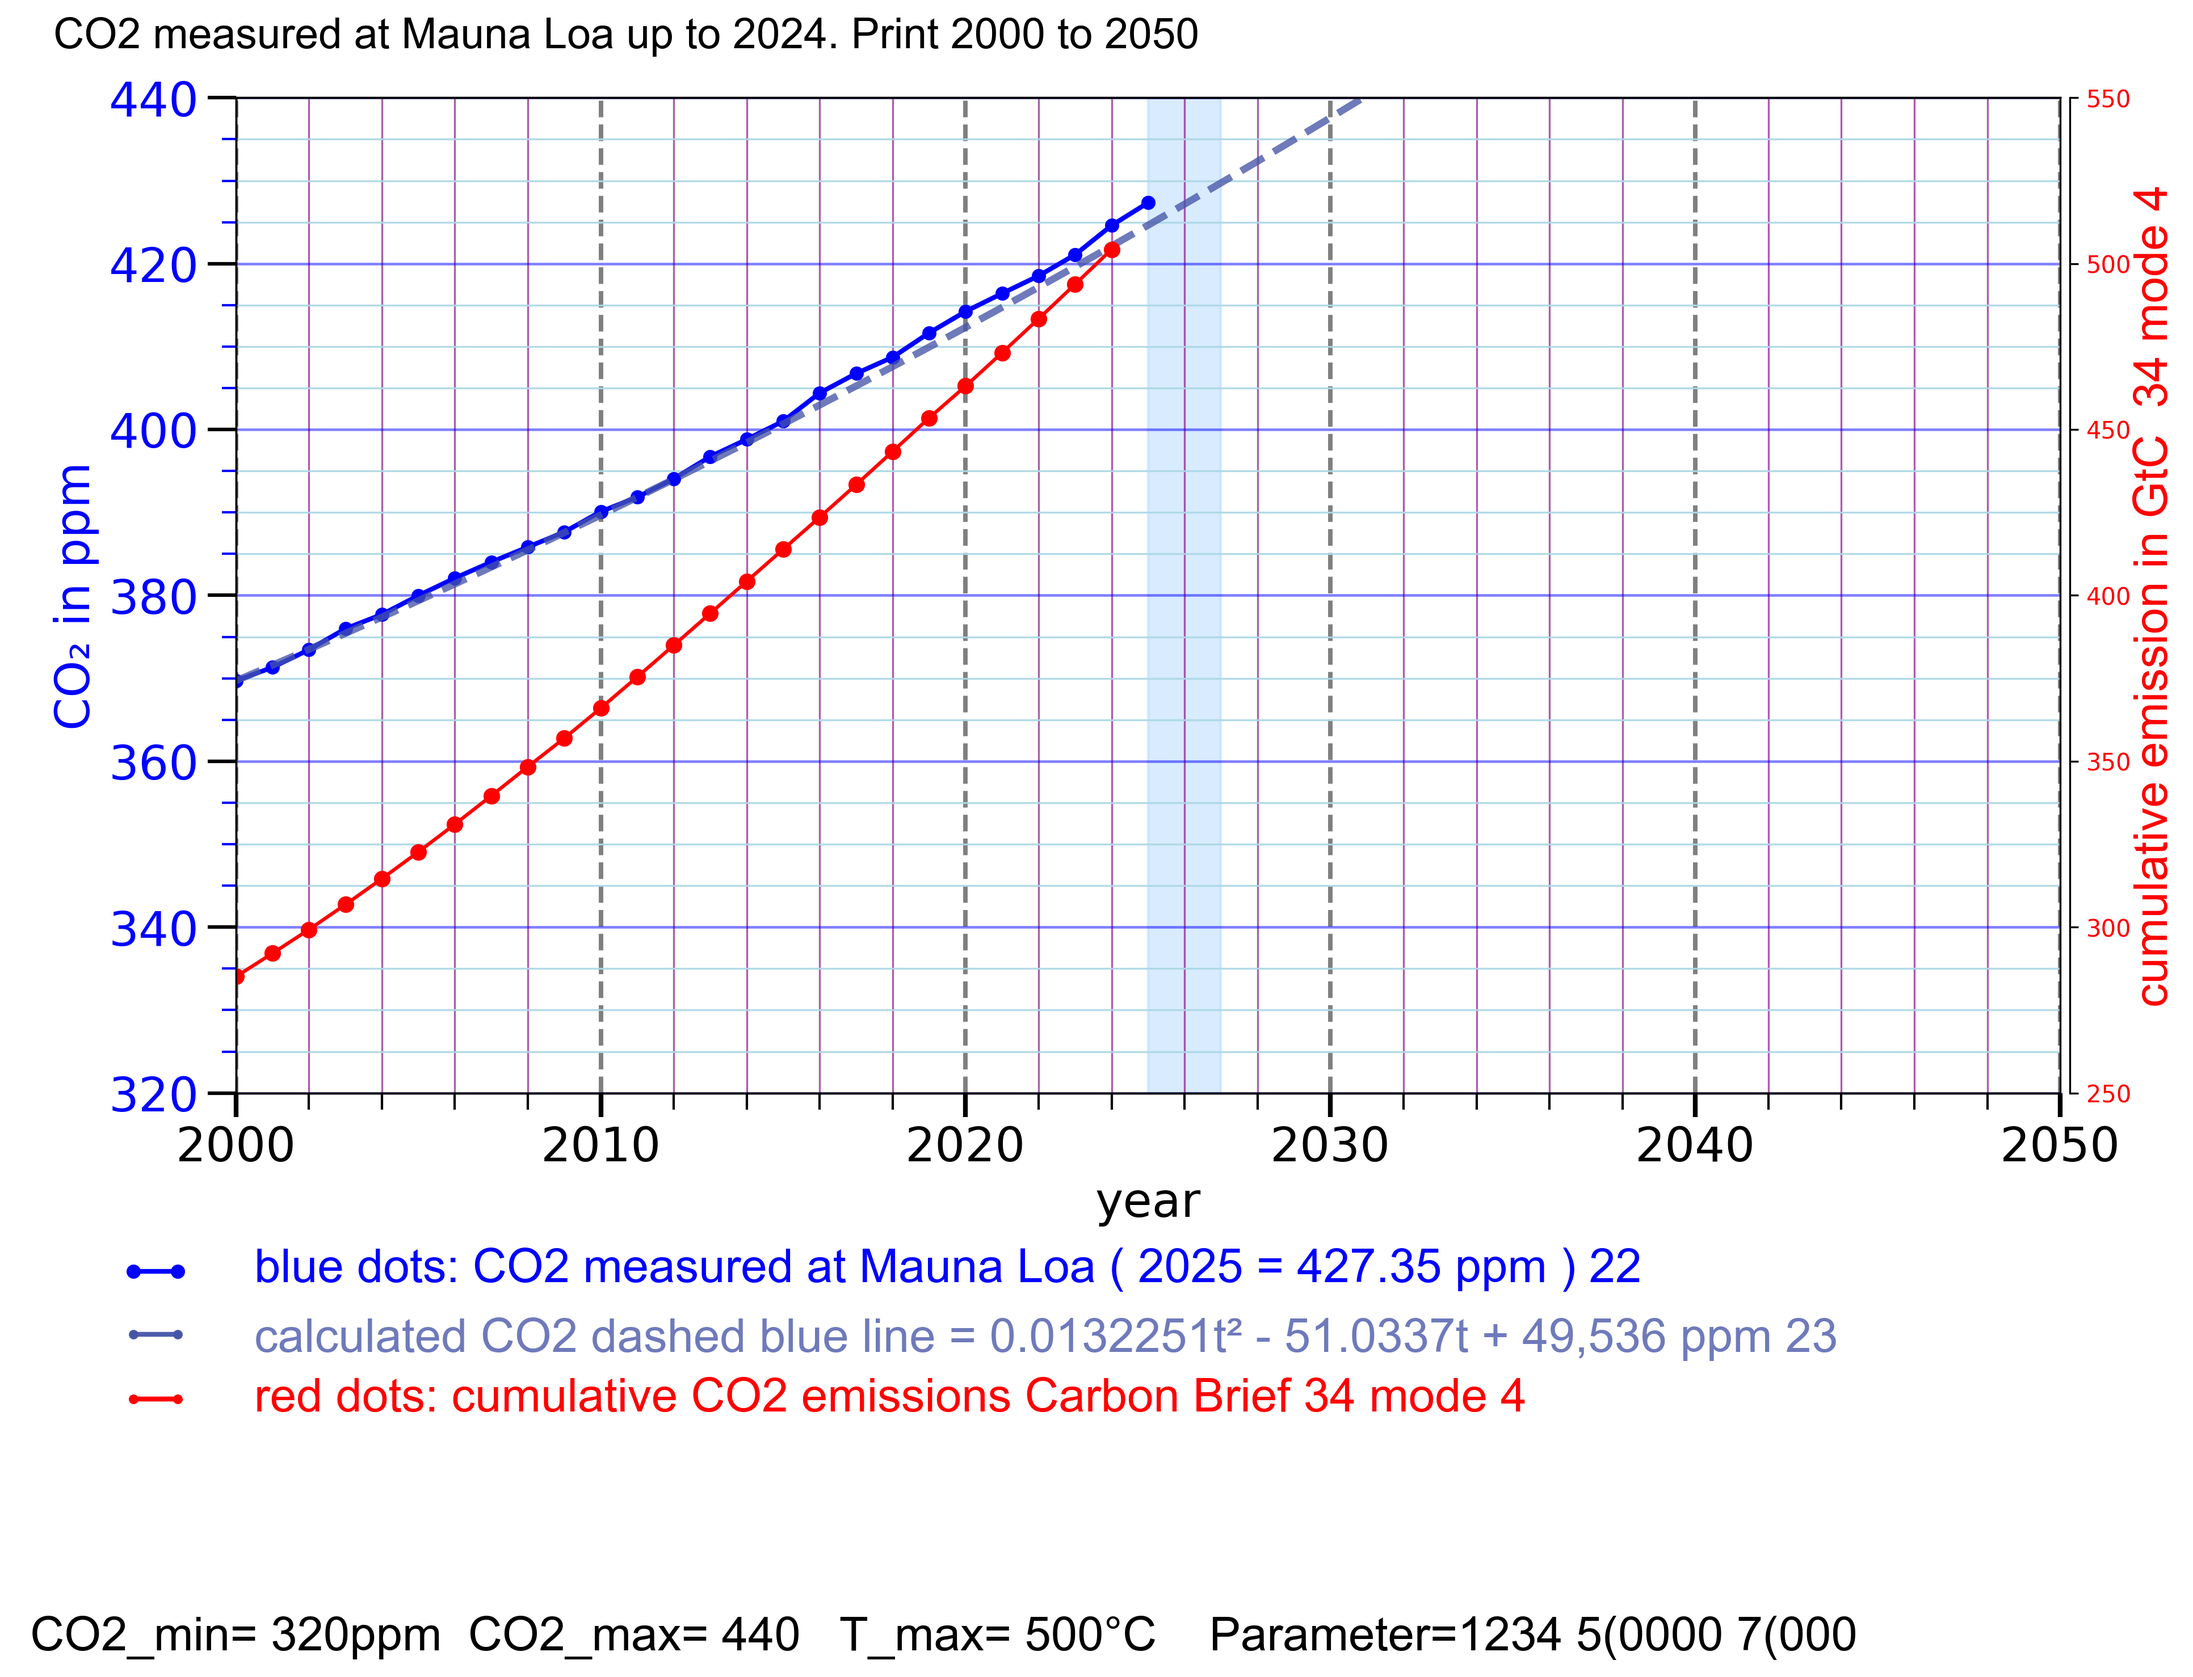
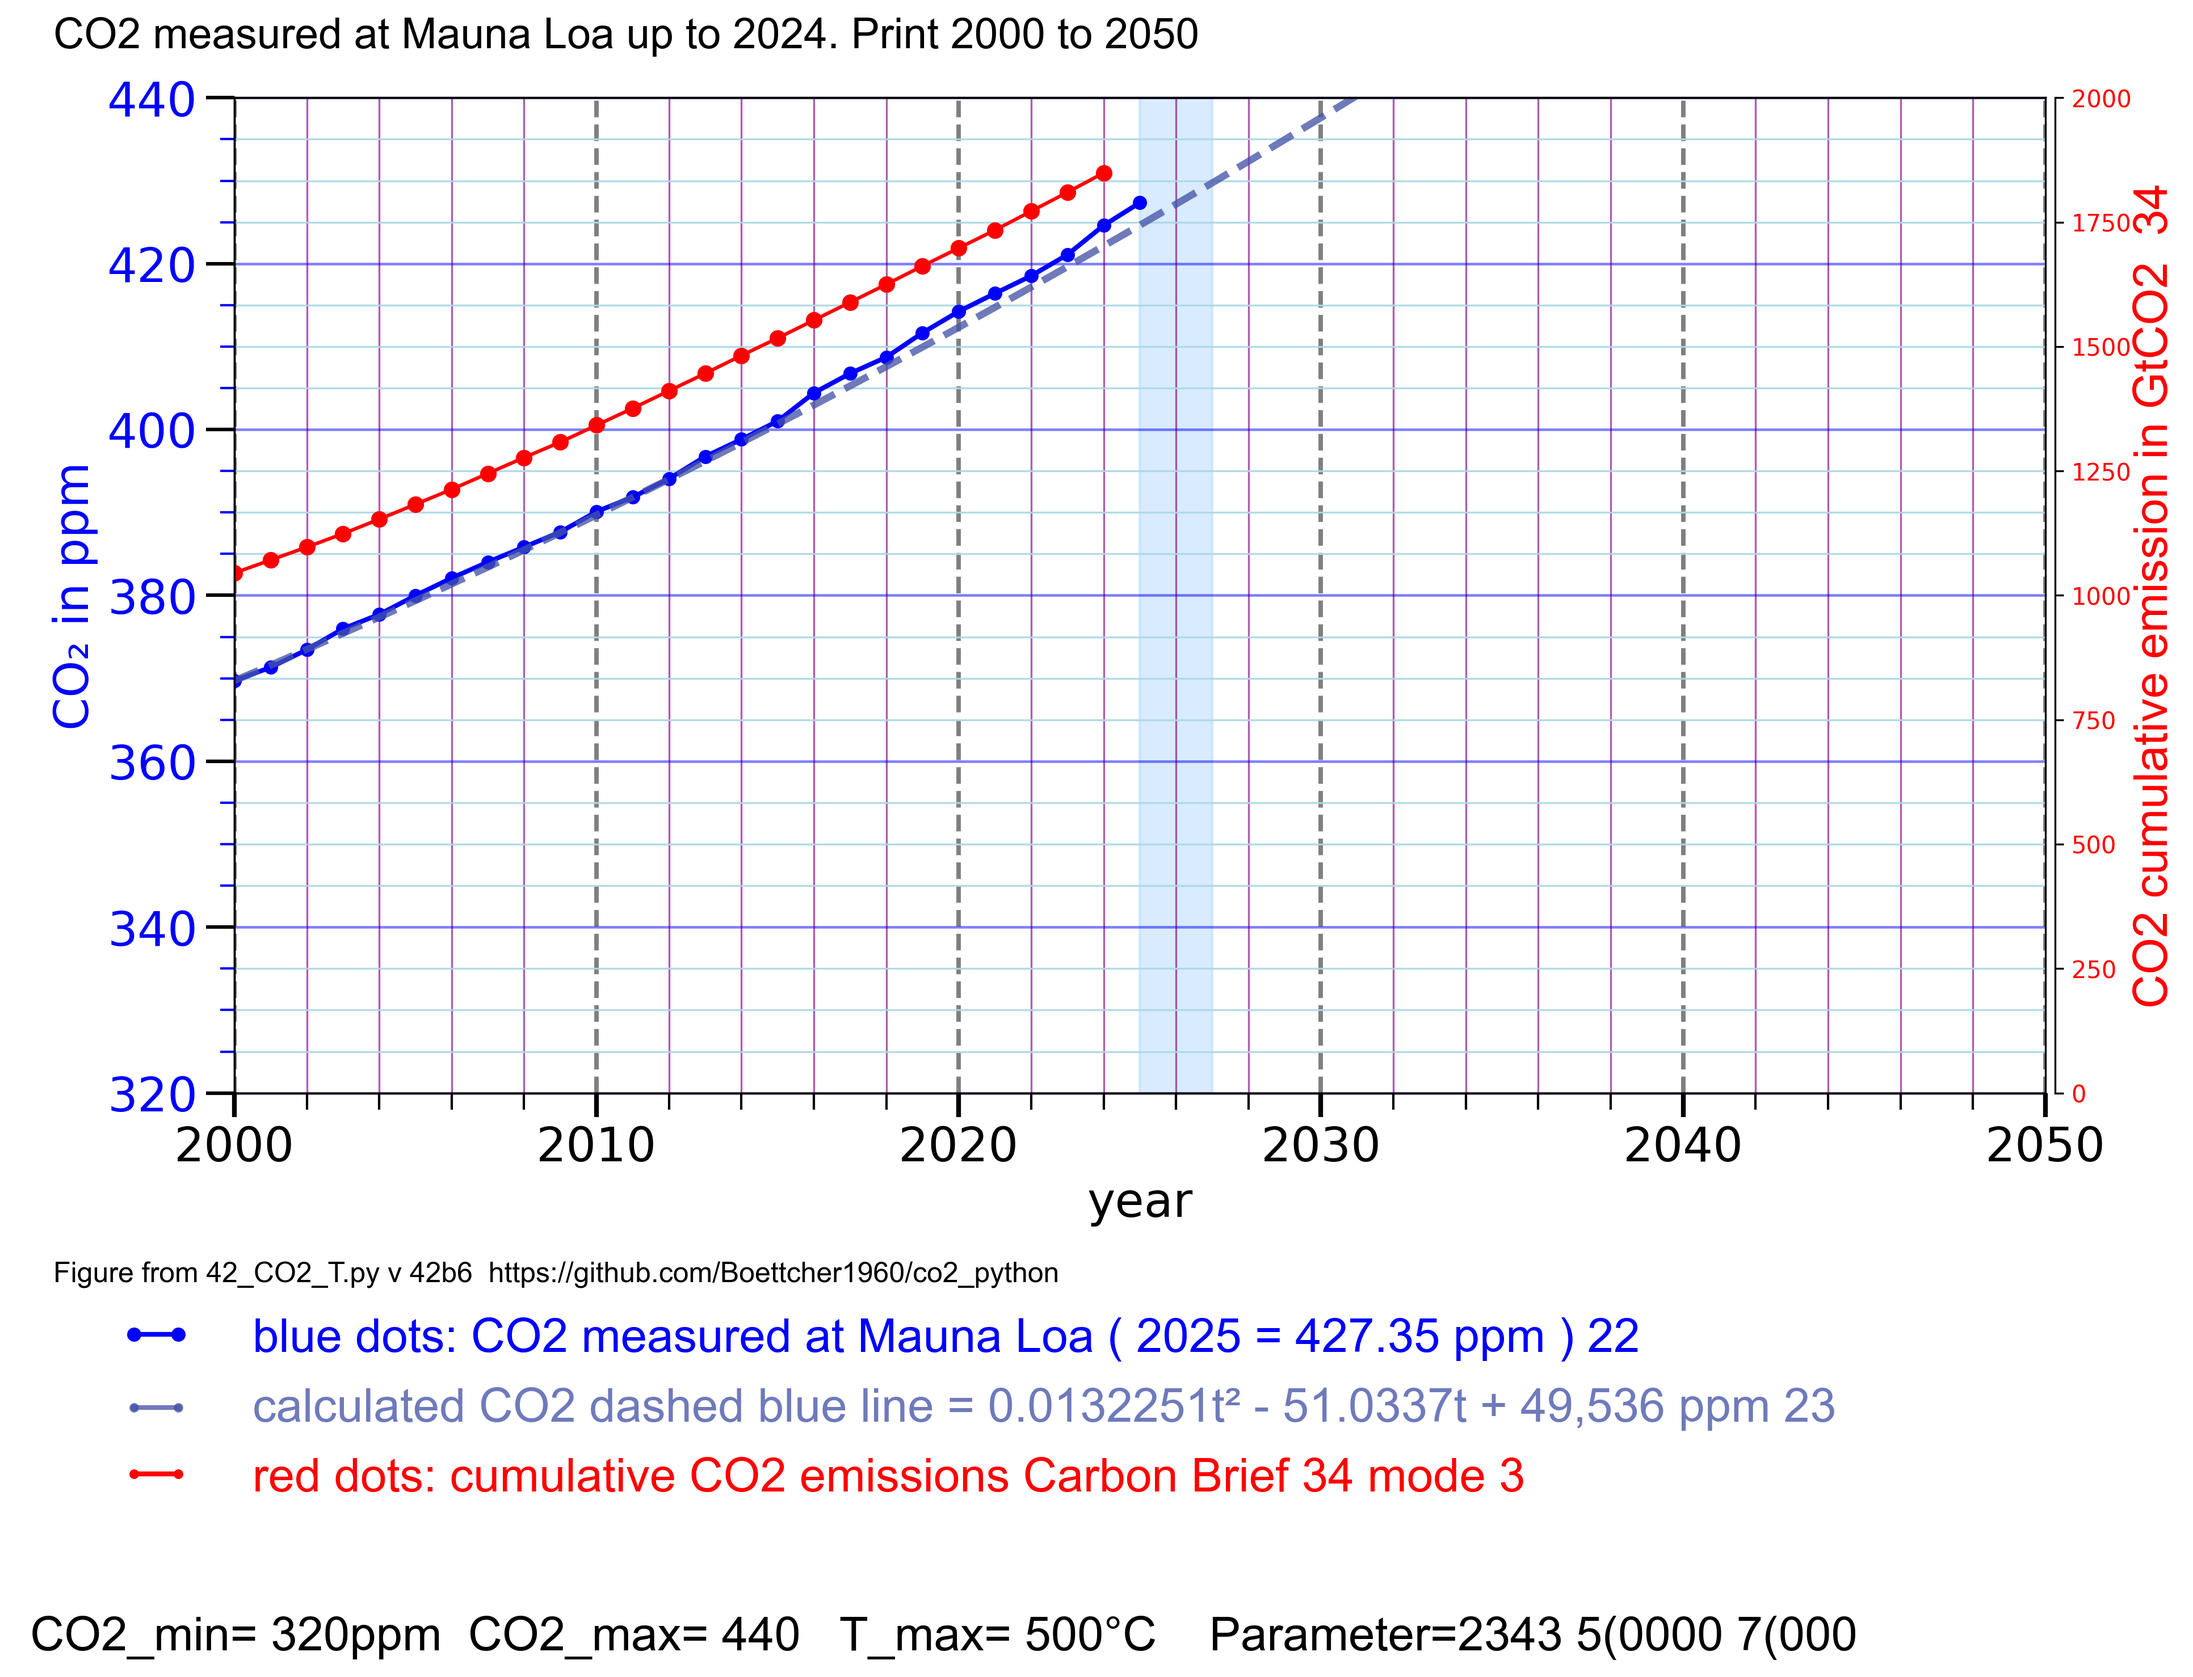
v = "42b6"

diff --git a/42_CO2_T.py b/42_CO2_T.py
@@ -1,5 +1,5 @@
 # 42_CO2_T.py 
-v = "42b5"
+v = "42b6"
 # Thomas Boettcher
 # part 1 configure 
 # part 2.2 plot CO2 Mauna Loa
@@ -32,12 +32,12 @@ import os
 import sys
 
 # 1.2 Parameter decide which curves to plot
-plot22_CO2_Mauna_Loa = 1 # 2 print in line 2 # 0 no plot CO2 # 1 Mauna Loa 
+plot22_CO2_Mauna_Loa = 2 # 1, 2 print in line 2 # 0 no plot CO2 # 1 Mauna Loa 
 c22 = "blue" # plot1 color
-plot23_Glen_CO2 = 2 # 3 print in line 2, 3, 0 keine Kurve Glen , 1 = 0.013t² - 51t + 49,536 in dark blue  
+plot23_Glen_CO2 = 3 # 2, 3 print in line 2, 3, 0 keine Kurve Glen , 1 = 0.013t² - 51t + 49,536 in dark blue  
 c23 = "#4554A8C6"   # c23 = "#4B3FD1"
 
-plot34_CO2_emission = 34 # 34 row3 mode 4, 42 row 4 mode 2   cumulative CO2 emissions 1750 to 2024
+plot34_CO2_emission = 43 # 34 row3 mode 4, 42 row 4 mode 2   cumulative CO2 emissions 1750 to 2024
 c34 = "purple"
 c34 = "red"
 # no part 4
@@ -80,7 +80,7 @@ tr2x = 0.01 # text row 2 x value -.3...1 -0.08
 tr1y = -.19 # text row 1 y end value -.3...1 -.15
 tr2y = -.26 # text row 2 y end value -.3...1 -.24
 # 1.5 scale the text rows below the plot field
-tr3y = -.32 # text row 1 y end value -.3...1 -.32
+tr3y = -.33 # text row 1 y end value -.3...1 -.32
 tr4y = -.40 # text row 1 y end value -.3...1 -.40
 tr5y = -.48 # text row 1 y end value -.3...1 -.48
 tr6y = -.56 # text row 1 y end value -.3...1 -.56
@@ -91,7 +91,7 @@ lr2x1 = 0.065 # line row 2 x value begin 0.065
 lr2x2 = 0.085 # line row 2 x value end 0.085
 lr1y = 0.248 # line row 1 y value begin 
 lr2y = 0.211 # line row 2 y value begin 0.215
-lr3y = 0.173 # line row 3 y value begin 0.17
+lr3y = 0.168 # line row 3 y value begin 0.17
 lr4y = 0.129 # line row 4 y value begin 0.124
 lr5y = 0.082 # line row 5 y value begin 0.08
 lr6y = 0.034 # line row 6 y value begin 0.08
